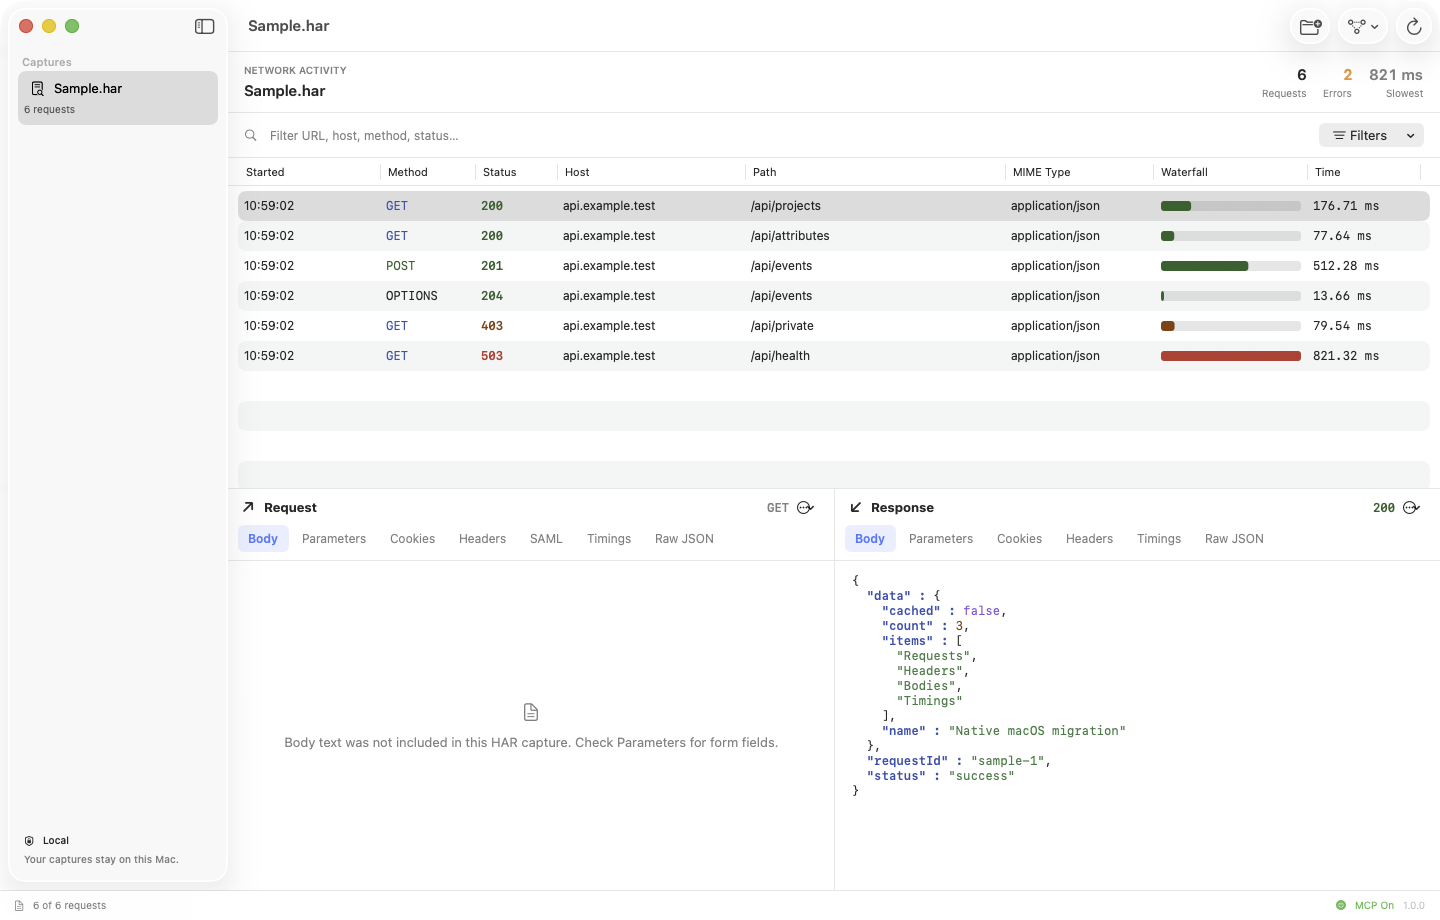
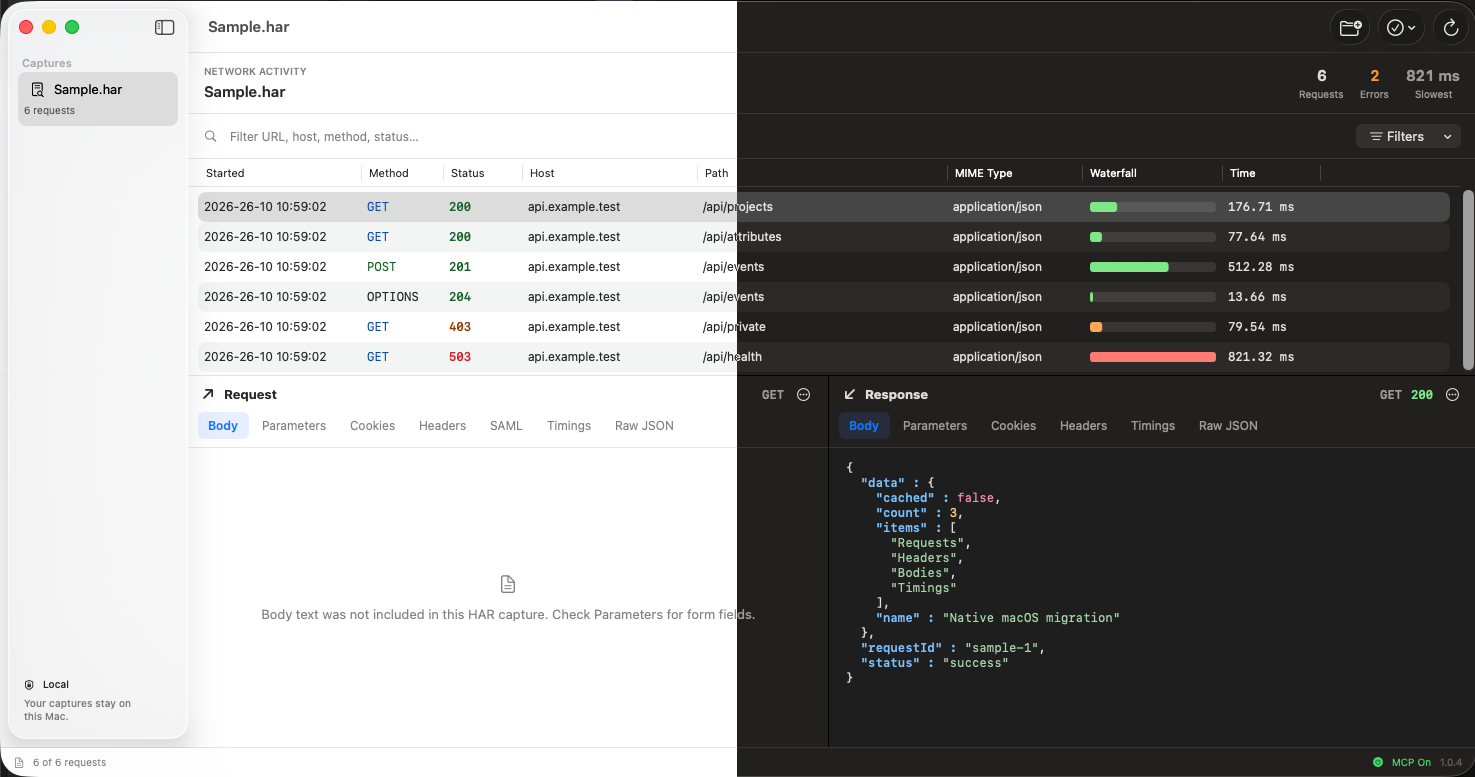
updated readme + screenshots

diff --git a/README.md b/README.md
@@ -2,7 +2,7 @@
   <img src="native/HarsharkNGX/HarsharkNGX/Assets.xcassets/AppIcon.appiconset/icon_512x512_2x.png" width="128" height="128" alt="HarsharkNGX shark icon">
 </p>
 <h1 align="center">HarsharkNGX</h1>
-<p align="center"><strong>See the whole request.</strong><br>A native macOS HAR viewer built with SwiftUI and AppKit.</p>
+<p align="center"><strong>See the whole request.</strong><br>A native macOS HAR viewer built with SwiftUI, AppKit, and light/dark mode support.</p>
 <p align="center">
   <a href="#build--run">Build &amp; run</a> ·
   <a href="native/HarsharkNGX/MCP-SETUP.md">MCP setup</a> ·
@@ -10,11 +10,11 @@
   <a href="README-PYSIDE6.md">Python / PySide6 version</a>
 </p>
 
-![HarsharkNGX showing the sample capture, request table, and waterfall timings](native/HarsharkNGX/docs/screenshots/overview.png)
+![HarsharkNGX 1.0.4 in one window split vertically, with the sample capture in light mode on the left and dark mode on the right](native/HarsharkNGX/docs/screenshots/overview.png)
 
-**Native v1.0.4 is available** from [GitHub Releases](https://github.com/teezyyoxo/HarsharkNGX/releases/tag/native-v1.0.4). Download the ZIP, extract it, and move `HarsharkNGX.app` to `/Applications`. The app includes its MCP helper and a guided privacy and permissions setup. Prefer the cross-platform Python app? Its original [installation and usage guide](README-PYSIDE6.md) is preserved separately.
+>**Native v1.0.4 is available** from [GitHub Releases](https://github.com/teezyyoxo/HarsharkNGX/releases/tag/native-v1.0.4). Download the ZIP, extract it, and move `HarsharkNGX.app` to `/Applications`. The app includes its MCP helper and a guided privacy and permissions setup. Prefer the cross-platform Python app? Its original [installation and usage guide](README-PYSIDE6.md) is preserved separately.
 
-**New in 1.0.4:** the Started column shows date and time by default, with an option to display UTC (Zulu) timestamps, and inspector tabs have tighter spacing. See the [1.0.4 release notes](https://github.com/teezyyoxo/HarsharkNGX/releases/tag/native-v1.0.4) for upgrade instructions.
+> **New in 1.0.4:** the Started column shows date and time by default, with an option to display UTC (Zulu) timestamps, and inspector tabs have tighter spacing. See the [1.0.4 release notes](https://github.com/teezyyoxo/HarsharkNGX/releases/tag/native-v1.0.4) for upgrade instructions.
 
 ## Explore your captures
 
@@ -24,10 +24,10 @@
 - **Inspect both sides.** Explore request and response bodies, headers, cookies, parameters, and timings with formatted JSON and syntax highlighting.
 - **Make it yours.** Choose system, light, or dark appearance; adjust columns, density, timestamps, and body previews in Settings.
 - **Work locally.** Inspect files on your Mac, export redacted summaries, and automatically make open captures available to MCP clients.
+- **Explore** the bundled sample capture and inspect individual requests and responses.
 
-![Inspecting a sample response in the native macOS app](native/HarsharkNGX/docs/screenshots/response-inspector.png)
+![HarsharkNGX 1.0.4 in one window split vertically, with the selected 403 response in light mode on the left and dark mode on the right](native/HarsharkNGX/docs/screenshots/response-inspector.png)
 
-*Explore the bundled sample capture and inspect individual requests and responses.*
 
 ## Build & run
 
